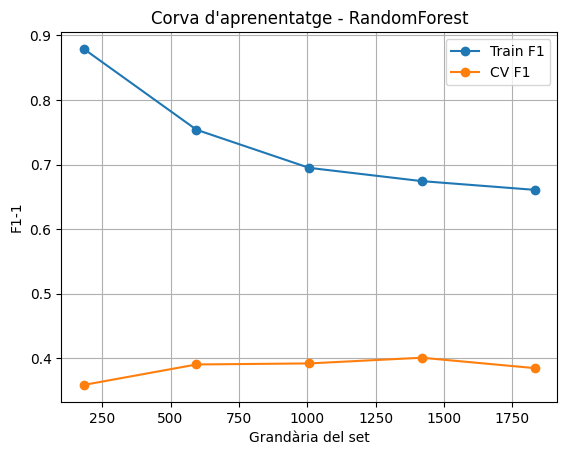
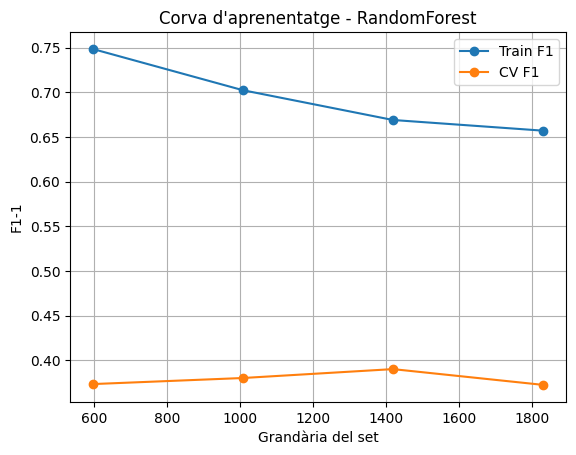
prep_all_columns

diff --git a/src/ai_health_assistant/utils/prep_helpers.py b/src/ai_health_assistant/utils/prep_helpers.py
@@ -61,31 +61,12 @@ def preprocess_dataframe(df, target, features):
 
 
 ########################## FLUXE DEL PREPROCESSAMENT #############################
-def preprocess_data(input_path, output_path):
+def preprocess_data(input_path, output_path, target, features):
     """Flux complet de preprocessament:
     1. Llegeix el CSV (ja netejat).
     2. Aplica transformacions i exporta CSV preprocessat.
     3. Retorna el DataFrame resultant.
     """
-    # Target a predir
-    target = "TIRED"
-
-    # Features que volem utilitzar per fer la predicció
-    features = [
-        "steps",
-        "calories",
-        "bpm",
-        "sedentary_minutes",
-        "resting_hr",
-        "minutesAsleep",
-        "bmi_tipo",
-        "gender",
-        "full_sleep_breathing_rate",
-        "stress_score",
-        "sleep_rem_ratio",
-        "sleep_efficiency",
-        "minutesAwake"
-    ]
 
     df = pd.read_csv(input_path)
     df_final = preprocess_dataframe(df, target, features)
@@ -95,4 +76,5 @@ def preprocess_data(input_path, output_path):
     print(f"Dades preprocessades guardades a: {output_path}")
 
     return df_final
+
 

diff --git a/src/ai_health_assistant/01_preprocessing/preprocess_data.py b/src/ai_health_assistant/01_preprocessing/preprocess_data.py
@@ -6,11 +6,43 @@ Un cop netejades les dades, les preprocessem, per preparar-les per l'entrenament
 Les funcions de preprocessament son les definides als prep_helpers.py
 
 '''
+# Target a predir
+TARGET = "TIRED"
+
+# Features que volem utilitzar per fer la predicció
+FEATURES = [
+    'nightly_temperature', 
+    'nremhr', 
+    'rmssd', 
+    'spo2', 
+    'full_sleep_breathing_rate', 
+    'stress_score', 
+    'daily_temperature_variation', 
+    'calories', 
+    'bpm', 
+    'sedentary_minutes', 
+    'resting_hr', 
+    'minutesAsleep', 
+    'minutesAwake', 
+    'sleep_efficiency', 
+    'sleep_deep_ratio', 
+    'sleep_wake_ratio', 
+    'sleep_light_ratio', 
+    'sleep_rem_ratio', 
+    'steps', 
+    'bmi', 
+    'age', 
+    'gender', 
+    'bmi_tipo'
+    ] 
+
 
 df_prep = preprocess_data(
     input_path="data/df_cleaned.csv",
-    output_path="data/df_preprocessed.csv"
-)
+    output_path="data/df_preprocessed.csv",
+    target=TARGET,
+    features=FEATURES)
+
 print(df_prep.info())
 
 

diff --git a/src/ai_health_assistant/02_training/training.py b/src/ai_health_assistant/02_training/training.py
@@ -79,7 +79,7 @@ model_name = "RandomForest" # RandomForest, GradientBoosting, MLP, SVM
 clf = CLASSIFIERS[model_name]
 
 pipeline = ImbPipeline([
-    ("smote", BorderlineSMOTE(random_state=42, sampling_strategy=0.8)),
+    ("smote", BorderlineSMOTE(random_state=42, sampling_strategy=0.7)),
     ("classifier", clf)
 ])
 
